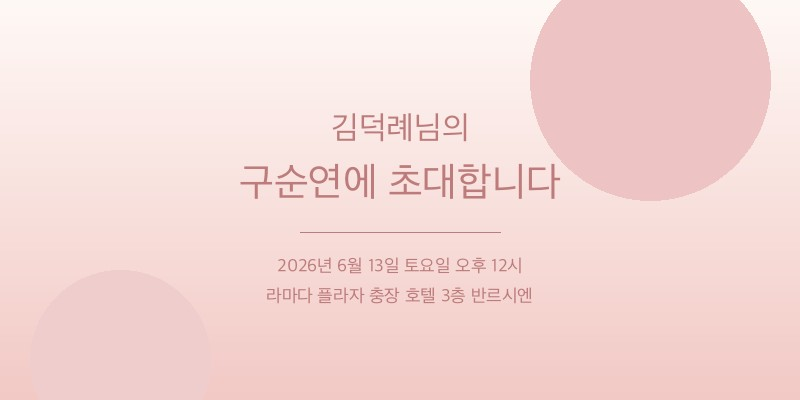
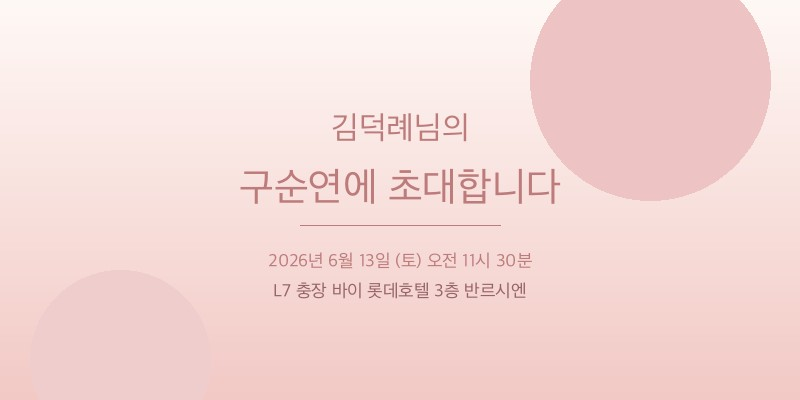
test

Changed region(s): [[0.3125, 0.63, 0.6875, 0.78], [0.2812, 0.39, 0.6875, 0.51]]

diff --git a/index.html b/index.html
@@ -6,7 +6,7 @@
 <meta name="format-detection" content="telephone=no">
 <title>김덕례님의 구순연에 초대합니다</title>
 <meta property="og:title" content="김덕례님의 구순연에 초대합니다">
-<meta property="og:description" content="6월 13일 토요일 오전 11시 30분 라마다 플라자 충장 호텔 3층 반르시엔">
+<meta property="og:description" content="2026년 6월 13일 토요일 오전 11시 30분 | L7 충장 바이 롯데호텔 3층 반르시엔">
 <meta property="og:image" content="https://invite-0613.vercel.app/static/image/og_thumbnail.jpg">
 <meta property="og:type" content="website">
 <script src="https://oapi.map.naver.com/openapi/v3/maps.js?ncpKeyId=0e3pqd2po2" defer></script>
